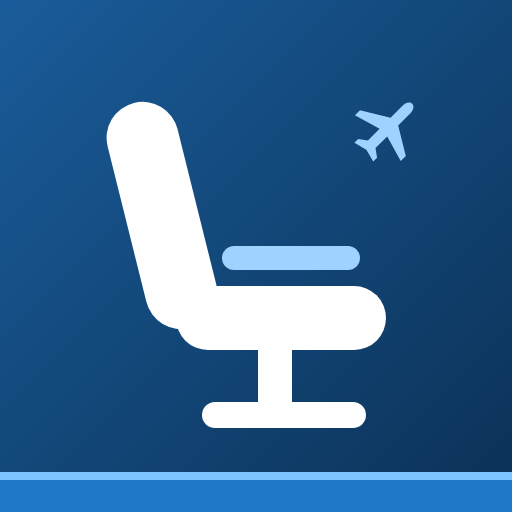
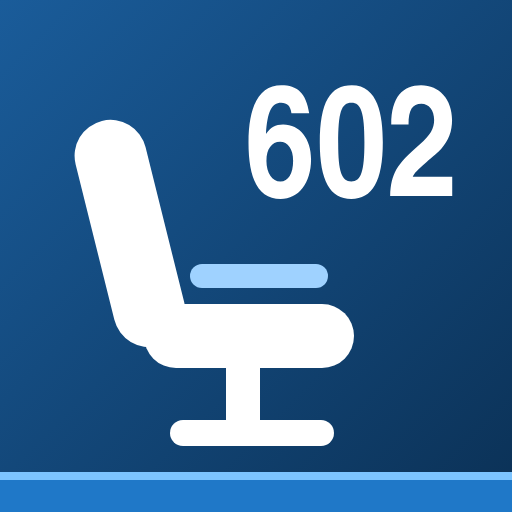
ใส่เลข 602 บนไอคอน และตั้งชื่อแอป 602 SEAT PLAN
Claude-Session: https://claude.ai/code/session_01HKsbscT56imQH39nfTjnhn

Changed region(s): [[0.125, 0.1875, 0.75, 0.875], [0.4688, 0.1562, 0.9062, 0.4062]]

diff --git a/index.html b/index.html
@@ -5,11 +5,12 @@
 <meta name="viewport" content="width=device-width, initial-scale=1, viewport-fit=cover">
 <meta name="robots" content="noindex, nofollow">
 <meta name="referrer" content="same-origin">
-<title>Passenger Seat Plan · ฝูงบิน 602</title>
+<title>602 SEAT PLAN · ผังที่นั่งผู้โดยสาร ฝูงบิน 602</title>
 <meta name="theme-color" content="#0e3b66">
 <meta name="description" content="ผังที่นั่งผู้โดยสาร ฝูงบิน 602 สำหรับหน่วยงานภายนอก">
 <meta property="og:type" content="website">
-<meta property="og:title" content="Passenger Seat Plan · ฝูงบิน 602">
+<meta property="og:site_name" content="602 SEAT PLAN">
+<meta property="og:title" content="602 SEAT PLAN · ผังที่นั่งผู้โดยสาร ฝูงบิน 602">
 <meta property="og:description" content="เลือกแบบเครื่องบินเพื่อดูผังที่นั่งผู้โดยสาร">
 <meta property="og:url" content="https://rtaf602.github.io/paxapp/">
 <meta property="og:image" content="https://rtaf602.github.io/paxapp/icons/icon-512.png">
@@ -19,7 +20,7 @@
 <link rel="apple-touch-icon" href="icons/apple-touch-icon.png">
 <meta name="apple-mobile-web-app-capable" content="yes">
 <meta name="mobile-web-app-capable" content="yes">
-<meta name="apple-mobile-web-app-title" content="SEAT PLAN 602">
+<meta name="apple-mobile-web-app-title" content="602 SEAT PLAN">
 <link rel="preconnect" href="https://fonts.googleapis.com">
 <link rel="preconnect" href="https://fonts.gstatic.com" crossorigin>
 <link rel="stylesheet" href="https://fonts.googleapis.com/css2?family=Barlow+Condensed:wght@500;600;700&family=IBM+Plex+Sans+Thai:wght@400;500;600&display=swap">

diff --git a/CLAUDE.md b/CLAUDE.md
@@ -17,7 +17,8 @@
 
 - ตั้งใจให้ต่างจากหน้า OPS 602 (repo `app`) เพื่อไม่ให้เข้าใจผิดว่าเป็นหน้าเดียวกัน: โทนฟ้าขาว แถบหัวสีน้ำเงินเต็มความกว้าง มีรูปเครื่องบินจาง ๆ ป้าย "สำหรับหน่วยงานภายนอก" การ์ดแบบบัตรขึ้นเครื่อง (ต้นขั้วสีน้ำเงิน รอยปรุ) โหมดมืดตามเครื่อง
 - ผู้ใช้ลองแบบโทนงาช้างทอง (แบบ 1) และแบบ Quiet Luxury (แบบ 3) แล้ว เลือกกลับมาแบบ 2
-- ไอคอนแอป (`icons/`) เป็นเก้าอี้ผู้โดยสารสีขาวบนพื้นน้ำเงิน มีเครื่องบินเล็กสีฟ้ามุมขวาบน และแถบฟ้าด้านล่าง ให้ดูเหมือนแอปจองที่นั่ง (ผู้ใช้ขอ 24 พ.ย.) ต้นฉบับคือ `icons/icon-source.svg` ไฟล์ PNG ทำจากต้นฉบับนี้ (maskable ย่อเนื้อหาเหลือ 80% ไม่มีแถบล่าง)
+- ชื่อแอป **602 SEAT PLAN** (`name`, `short_name` ใน manifest, `apple-mobile-web-app-title`, `<title>`, og:title) ผู้ใช้ตั้ง 24 พ.ย. ให้คนนอกรู้ว่าเป็นของฝูงไหน
+- ไอคอนแอป (`icons/`) เป็นเก้าอี้ผู้โดยสารสีขาวบนพื้นน้ำเงิน มีเลข "602" สีขาวมุมขวาบน และแถบฟ้าด้านล่าง ให้ดูเหมือนแอปจองที่นั่ง (ผู้ใช้ขอ 24 พ.ย.) ต้นฉบับคือ `icons/icon-source.svg` เลข 602 เป็นเส้น path (ฟอนต์ TeX Gyre Heros Cn Bold) ไม่ขึ้นกับฟอนต์ในเครื่อง ไฟล์ PNG ทำจากต้นฉบับนี้ (maskable ย่อเนื้อหาเหลือ 74% ไม่มีแถบล่าง)
 - มี og:image ชี้ไป `icons/icon-512.png` ให้รูปขึ้นตอนแชร์ลิงก์ใน LINE หรือแอปแชต
 - ฟอนต์ Barlow Condensed (หัวเรื่องอังกฤษ) + IBM Plex Sans Thai
 - ตราฝูงในหน้าเป็นแบบเรียบ (วงทองทึบ 2 วง ไม่มีวงประ) เพราะแบบเดิมดูแตกเมื่อย่อเล็ก (ผู้ใช้ขอ 24 พ.ย.) 

diff --git a/README.md b/README.md
@@ -1,4 +1,4 @@
-# Passenger Seat Plan · ฝูงบิน 602
+# 602 SEAT PLAN · ผังที่นั่งผู้โดยสาร ฝูงบิน 602
 
 หน้ารวมผังที่นั่งผู้โดยสาร **สำหรับหน่วยงานภายนอก** อยู่ที่ `https://rtaf602.github.io/paxapp/`
 
@@ -19,7 +19,7 @@
 |---|---|
 | `index.html` | หน้าทั้งหมด: หัวหน้า เวลาไทยและเวลา Zulu การ์ดแบบเครื่อง |
 | `hero-plane.jpg` | รูปเครื่องบินในแถบหัว |
-| `manifest.webmanifest`, `icons/` | ชื่อ (SEAT PLAN 602) และไอคอนเมื่อกด "เพิ่มลงหน้าจอหลัก" |
+| `manifest.webmanifest`, `icons/` | ชื่อแอป (602 SEAT PLAN) และไอคอนเมื่อกด "เพิ่มลงหน้าจอหลัก" |
 
 ## เพิ่มหรือแก้แบบเครื่อง
 
